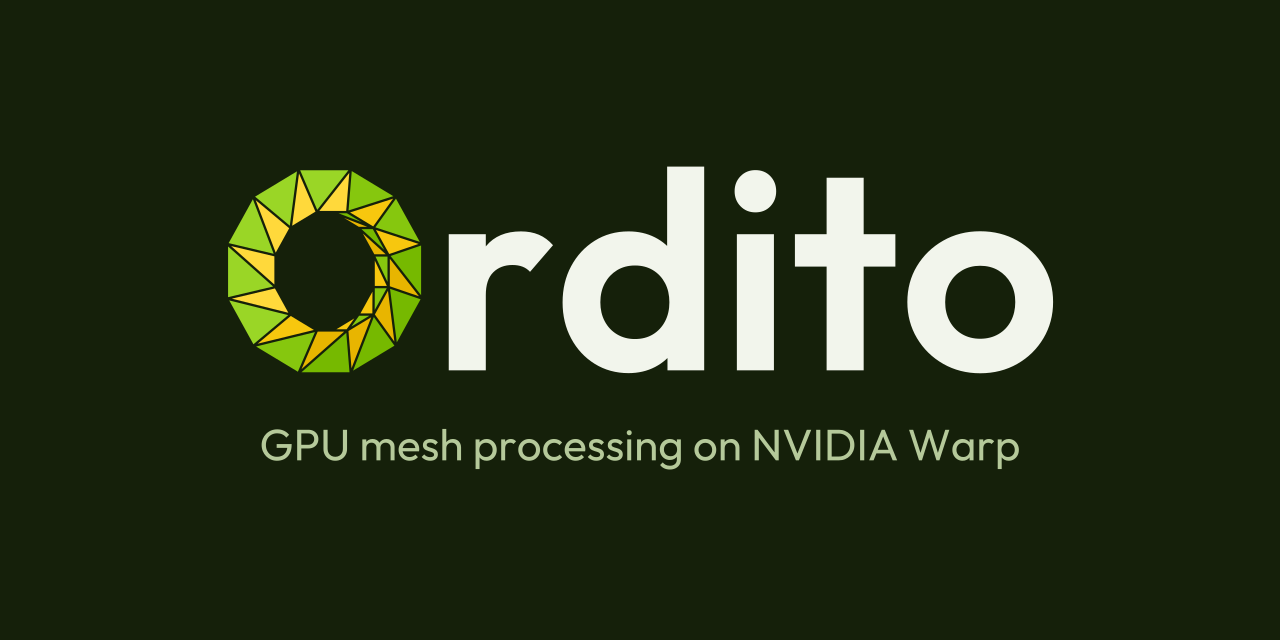
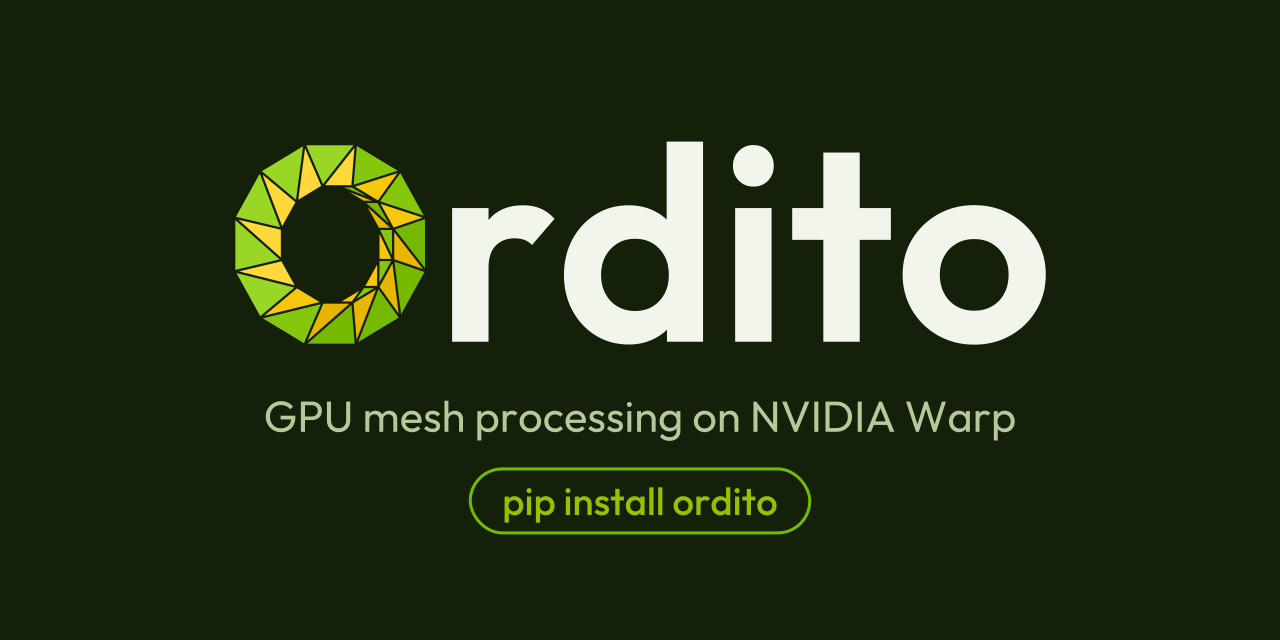
:art: 1200x630 Open Graph card with an install call to action
Link previews expect 1.91:1, so the docs name a 1200x630 og-image.png of their own; the
1280x640 card stays for GitHub's social preview, which asks for 2:1. Both now carry a
"pip install ordito" pill, and the site description is cut to 119 characters, under the ~125
previews show. make_wordmark.py renders both PNGs itself.

Changed region(s): [[0.1562, 0.2188, 0.8438, 0.5938], [0.1875, 0.625, 0.8125, 0.8438]]

diff --git a/docs/.overrides/main.html b/docs/.overrides/main.html
@@ -1,6 +1,6 @@
 {% extends "base.html" %}
 
-{#- Link previews (Open Graph and Twitter cards): every page shares the social preview card that
+{#- Link previews (Open Graph and Twitter cards): every page shares the 1200 x 630 card that
     .github/make_wordmark.py generates, with the page's own title and description. -#}
 {% block extrahead %}
   {%- set title = (page.meta["title"] if "title" in page.meta else page.title) ~ " - " ~ config.site_name -%}
@@ -8,7 +8,7 @@
   {#- mike deploys each version with site_url set to that version's directory, with no trailing
       slash, so the separator is added only when it is missing. -#}
   {%- set base = config.site_url if config.site_url[-1:] == "/" else config.site_url ~ "/" -%}
-  {%- set image = base ~ "assets/social-preview.png" -%}
+  {%- set image = base ~ "assets/og-image.png" -%}
   <meta property="og:type" content="website">
   <meta property="og:site_name" content="{{ config.site_name }}">
   <meta property="og:title" content="{{ title | striptags }}">
@@ -16,8 +16,8 @@
   <meta property="og:url" content="{{ page.canonical_url }}">
   <meta property="og:image" content="{{ image }}">
   <meta property="og:image:type" content="image/png">
-  <meta property="og:image:width" content="1280">
-  <meta property="og:image:height" content="640">
+  <meta property="og:image:width" content="1200">
+  <meta property="og:image:height" content="630">
   <meta property="og:image:alt" content="ordito: GPU mesh processing on NVIDIA Warp">
   <meta name="twitter:card" content="summary_large_image">
   <meta name="twitter:title" content="{{ title | striptags }}">

diff --git a/.github/make_wordmark.py b/.github/make_wordmark.py
@@ -1,13 +1,13 @@
-"""Build the ordito wordmark and the GitHub social preview from the ring mark.
+"""Build the ordito wordmark and the link-preview cards from the ring mark.
 
 The ring (``docs/assets/ordito.svg``) is the initial O; "rdito" and the tagline are Outfit
 (SIL OFL 1.1, https://github.com/google/fonts/tree/main/ofl/outfit) converted to outlines, so no
-font is needed to view the result. Re-run after changing the ring::
+font is needed to view the result. It writes ``wordmark.svg``,
+``wordmark-dark.svg``, the GitHub social preview ``social-preview.png`` and the docs' Open Graph
+card ``og-image.png`` into ``docs/assets``. Re-run after changing the ring::
 
     curl -Lo /tmp/Outfit.ttf "https://github.com/google/fonts/raw/main/ofl/outfit/Outfit%5Bwght%5D.ttf"
-    uv run --group bench python .github/make_wordmark.py . /tmp/Outfit.ttf 600 /tmp
-    uv run --group bench python -c "import cairosvg; cairosvg.svg2png(url='/tmp/social.svg', \\
-        write_to='docs/assets/social-preview.png', output_width=1280)"
+    uv run --group bench python .github/make_wordmark.py . /tmp/Outfit.ttf 600
 """
 
 import re
@@ -107,21 +107,41 @@ def outline(text: str, weight: float) -> tuple[str, float]:
     return pen.getCommands(), adv
 
 
-# GitHub social preview, 1280 x 640: the dark wordmark over the docs header green, a tagline below.
-W, H = 1280, 640
-mark_w = 860
-k = mark_w / width
-mark_h = height * k
-tag_d, tag_adv = outline("GPU mesh processing on NVIDIA Warp", 400)
-tag_k = 44 / upm
-inner = re.search(r"<svg[^>]*>(.*)</svg>", wordmark("#F2F5EC", ""), re.S).group(1)
-inner = re.sub(r"<title>.*?</title>|<!--.*?-->", "", inner, flags=re.S)
-mark_y = (H - mark_h) / 2 - 50
-social = (
-    f'<svg xmlns="http://www.w3.org/2000/svg" viewBox="0 0 {W} {H}">'
-    f'<rect width="{W}" height="{H}" fill="#15200A"/>'
-    f'<g transform="translate({(W - mark_w) / 2:.2f} {mark_y:.2f}) scale({k:.5f})">{inner}</g>'
-    f'<path fill="#B5C99A" transform="translate({(W - tag_adv * tag_k) / 2:.2f} '
-    f'{mark_y + mark_h + 70:.2f}) scale({tag_k:.5f} {-tag_k:.5f})" d="{tag_d}"/></svg>'
-)
-(Path(sys.argv[4]) / "social.svg").write_text(social)
+def social_card(card_w: int, card_h: int) -> str:
+    """Return a link-preview card: the dark wordmark, the tagline and the install command."""
+    mark_w = 0.66 * card_w
+    k = mark_w / width
+    mark_h = height * k
+    tag_d, tag_adv = outline("GPU mesh processing on NVIDIA Warp", 400)
+    cta_d, cta_adv = outline("pip install ordito", 500)
+    tag_k, cta_k = 0.034 * card_w / upm, 0.03 * card_w / upm
+    inner = re.search(r"<svg[^>]*>(.*)</svg>", wordmark("#F2F5EC", ""), re.S).group(1)
+    inner = re.sub(r"<title>.*?</title>|<!--.*?-->", "", inner, flags=re.S)
+    mark_y = (card_h - mark_h) / 2 - 0.12 * card_h
+    tag_y = mark_y + mark_h + 0.11 * card_h
+    cta_y = tag_y + 0.13 * card_h
+    # The install command sits in a pill outlined in the brand green, as the card's call to action.
+    pill_w, pill_h = cta_adv * cta_k + 0.05 * card_w, 0.1 * card_h
+    pill_x, pill_y = (card_w - pill_w) / 2, cta_y - 0.072 * card_h
+    return (
+        f'<svg xmlns="http://www.w3.org/2000/svg" viewBox="0 0 {card_w} {card_h}">'
+        f'<rect width="{card_w}" height="{card_h}" fill="#15200A"/>'
+        f'<g transform="translate({(card_w - mark_w) / 2:.2f} {mark_y:.2f}) scale({k:.5f})">'
+        f"{inner}</g>"
+        f'<path fill="#B5C99A" transform="translate({(card_w - tag_adv * tag_k) / 2:.2f} '
+        f'{tag_y:.2f}) scale({tag_k:.5f} {-tag_k:.5f})" d="{tag_d}"/>'
+        f'<rect x="{pill_x:.2f}" y="{pill_y:.2f}" width="{pill_w:.2f}" height="{pill_h:.2f}" '
+        f'rx="{pill_h / 2:.2f}" fill="none" stroke="#76B900" stroke-width="3"/>'
+        f'<path fill="#98C000" transform="translate({(card_w - cta_adv * cta_k) / 2:.2f} '
+        f'{cta_y:.2f}) scale({cta_k:.5f} {-cta_k:.5f})" d="{cta_d}"/></svg>'
+    )
+
+
+# GitHub asks for 1280 x 640 (Settings -> Social preview); Open Graph consumers for 1.91:1,
+# 1200 x 630, which the docs pages name as their og:image.
+import cairosvg  # noqa: E402
+
+for name, size in [("social-preview.png", (1280, 640)), ("og-image.png", (1200, 630))]:
+    cairosvg.svg2png(
+        bytestring=social_card(*size).encode(), write_to=str(out / name), output_width=size[0]
+    )
